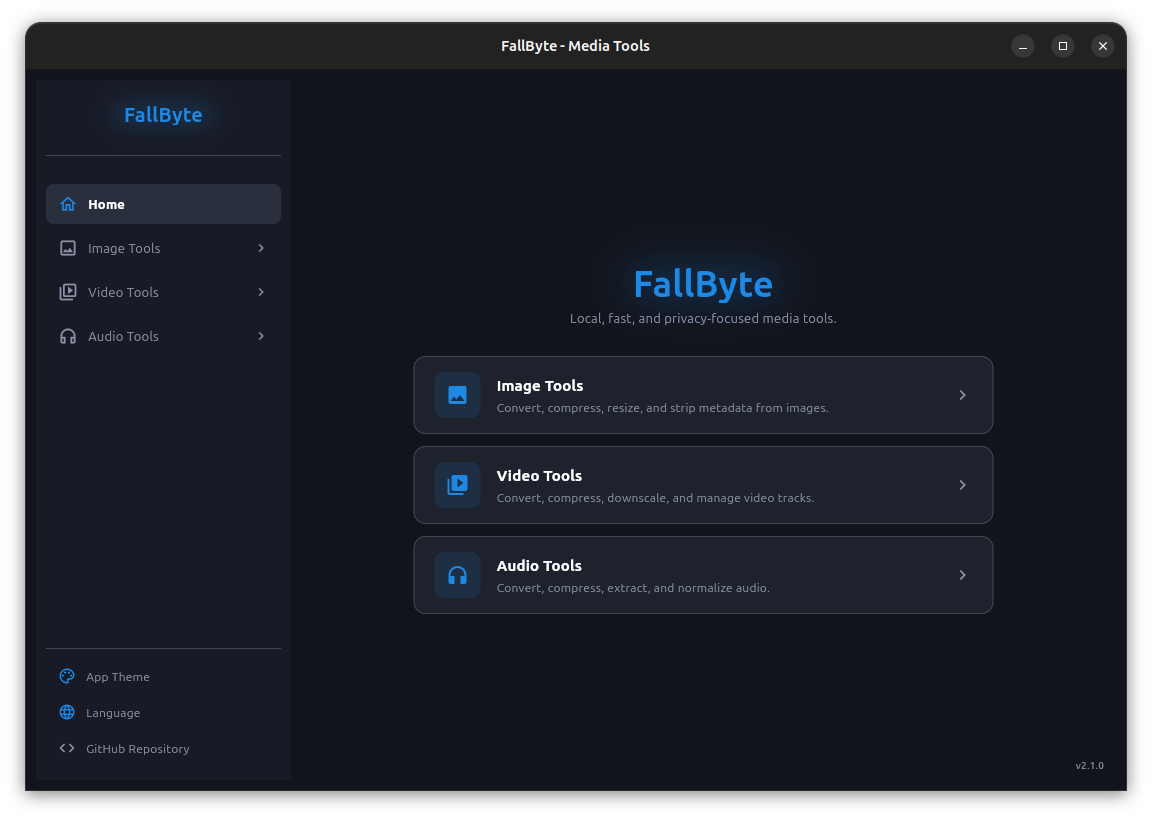
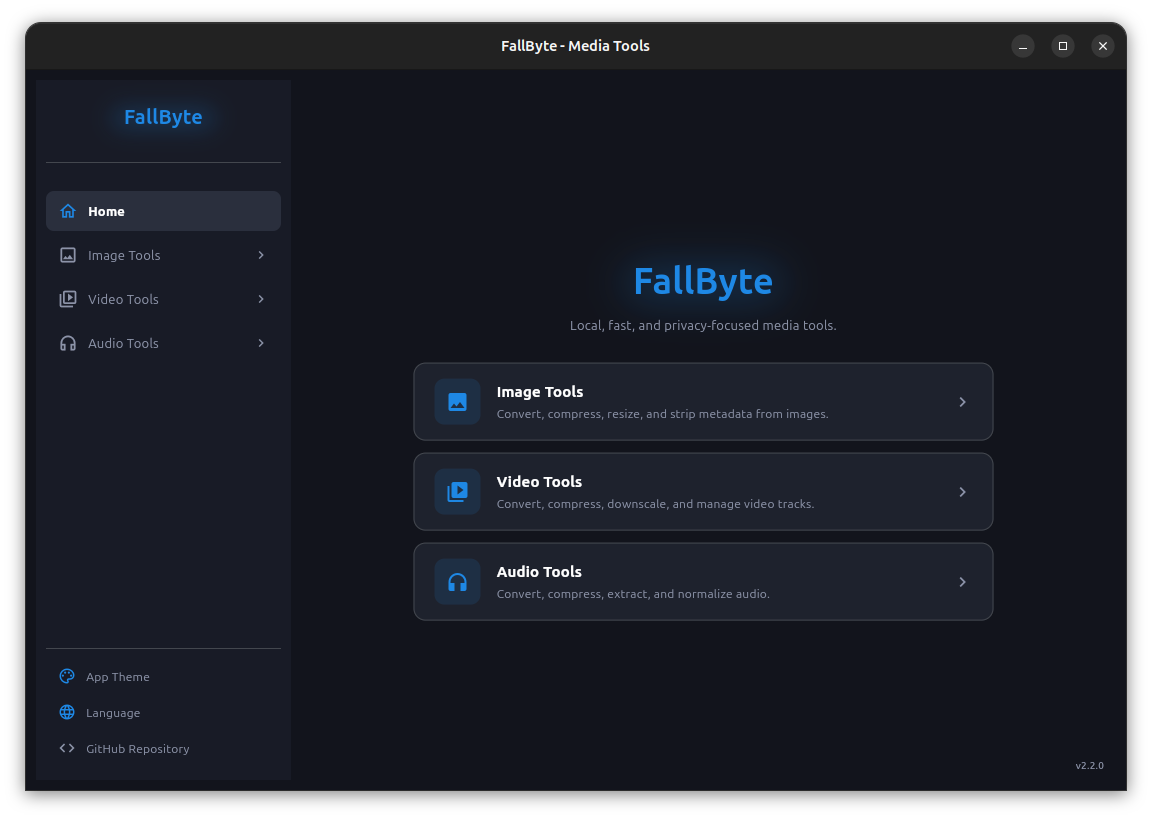
update version for 2.2.0

diff --git a/index.html b/index.html
@@ -119,16 +119,10 @@
 
     <!-- App Screenshot Showcase -->
     <div class="showcase-wrapper">
-      <div class="showcase-frame">
-        <div class="window-bar window-bar-minimal">
-          <span class="window-title">FallByte</span>
-        </div>
-
-        <div class="screenshot-container" id="screenshot-container">
-          <img id="app-screenshot" src="" alt="FallByte Interface" />
-          <div class="screenshot-placeholder" id="screenshot-placeholder">
-            <span>Add your screenshot to <code>screenshots/preview.png</code></span>
-          </div>
+      <div class="screenshot-container" id="screenshot-container">
+        <img id="app-screenshot" src="" alt="FallByte Interface" />
+        <div class="screenshot-placeholder" id="screenshot-placeholder">
+          <span>Add your screenshot to <code>screenshots/preview.png</code></span>
         </div>
       </div>
 

diff --git a/css/style.css b/css/style.css
@@ -247,7 +247,7 @@ p.subtitle {
   display: flex;
   align-items: center;
   justify-content: center;
-  background: #070b14;
+  filter: drop-shadow(0 20px 35px rgba(0, 0, 0, 0.75));
 }
 
 .screenshot-container img {

diff --git a/js/config.js b/js/config.js
@@ -1,4 +1,4 @@
-const VERSION = "2.1.0";
+const VERSION = "2.2.0";
 const REPO_OWNER = "brunothinker";
 const REPO_NAME = "FallByte";
 const REPO_URL = `https://github.com/${REPO_OWNER}/${REPO_NAME}`;
